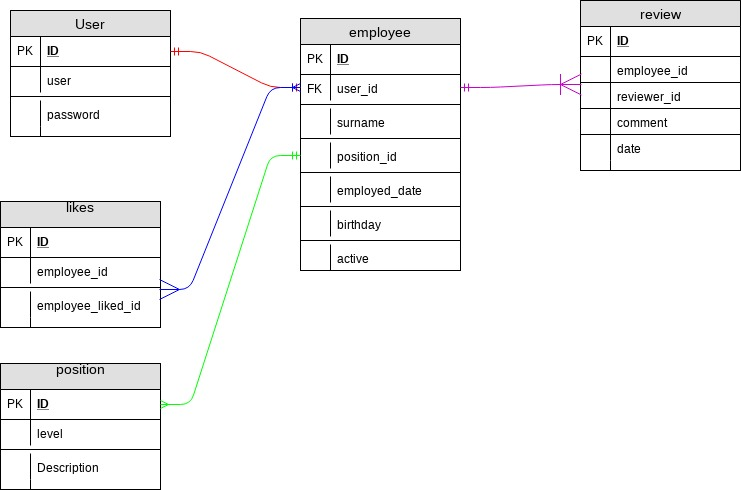
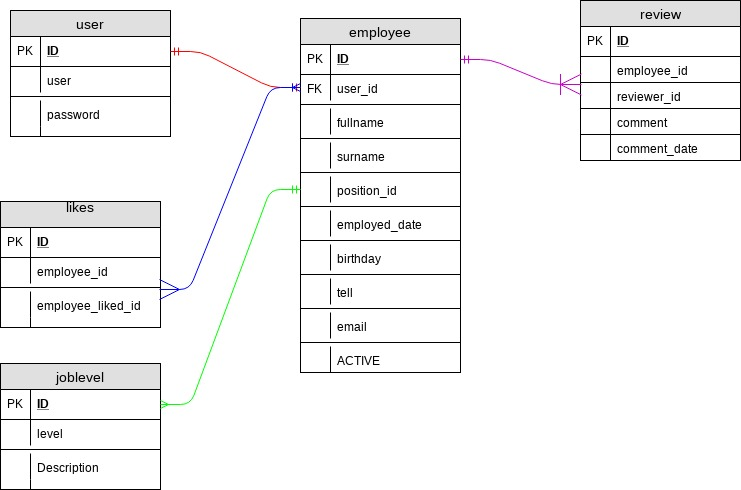
Over all updates, Started and finnished with STATISTICS

diff --git a/statistics.php b/statistics.php
@@ -12,6 +12,12 @@
 include_once("config/config.php");
 $header = "STATISTICS";
 
+//creating a new instance
+$DBCLASS = new DBCLASS();
+
+//include functions
+include_once("include/functions.php");
+
 ?>
 <!DOCTYPE html>
 <html lang="en">
@@ -52,7 +58,151 @@ $header = "STATISTICS";
           <?php include_once("include/header.php"); ?>
 
           <!-- Code body from here -->
-          <h1>Hallo</h1>
+					<?php
+
+					/************************************************************************************************
+					* birthdays this month
+					************************************************************************************************/
+					$Birthdays = $DBCLASS->CUSTOM("SELECT * FROM employee WHERE MONTH(birthday) ='" . date('m') . "' ORDER BY DAY(birthday) ASC");
+					//print_r($Birthdays);
+
+					while($row = $Birthdays->fetch_assoc()) {
+						$BirthdayArray[] = $row;
+					}
+
+					$colorArray = array(
+															'text-white bg-primary mb-3', 	//0
+															'text-white bg-secondary',			//1
+															'text-white bg-success',				//2
+															'text-white bg-danger',					//3
+															'text-white bg-warning',				//4
+															'text-white bg-info',						//5
+															'bg-light',											//6
+															'text-white bg-dark' 						//7
+														);
+
+					if(isset($BirthdayArray) && $BirthdayArray['SQLsuccess'] !== 'FALSE'){
+						echo "<h2>UPCOMMING BIRTHDAYS</h2>";
+						foreach ($BirthdayArray as $key => $value) {
+
+							if($key == 0){
+								echo "<div class='row'>";
+							}
+
+							//Employe birthday date convert to ddmm format for better testing
+							$time = strtotime($value['birthday']);
+							$birthday = date("dm", $time);
+
+							//gettting date today
+							//format ddmm(day month)
+							$today = date("dm");
+
+							if($birthday === $today){
+								$colorCardClass = $colorArray[3];
+								$employeeNamePreText = "Happy birthday";
+							}else{
+								$colorCardClass = $colorArray[1];
+								$employeeNamePreText = "EMPLOYEE NAME";
+							}
+
+
+							echo "
+							<div class='col-sx-12 col-md-4'>
+								<div class='card md-3 " . $colorCardClass . "' >
+									<h5 class='card-header'>" . $value['birthday'] . "</h5>
+									<div class='card-body'>
+										<h5 class='card-title'>" . $employeeNamePreText .": " . $value['fullname'] . " " . $value['surname'] . "</h5>
+										<p class='card-text'>TELEPHONE: " . $value['tell'] . "</p>
+										<p class='card-text'>EMAIL: " . $value['email'] . "</p>
+									</div>
+								</div>
+							</div>
+							";
+
+							if( ($key+1)%3 == 0 ){
+								echo "</div>";
+								echo "<br>";
+								echo "<div class='row'>";
+							}
+
+						}//for
+						echo "</div>";
+						echo "<br>";
+					}
+
+					/************************************************************************************************
+					* Total number of emloyees
+					************************************************************************************************/
+					$TotalEmployees = $DBCLASS->CUSTOM("SELECT * FROM employee");
+					printf("<h3>Total number of employees: %s</h3>", $TotalEmployees->num_rows);
+					//print_r($TotalEmployees);
+
+					/************************************************************************************************
+					* Total COMMENTS
+					************************************************************************************************/
+					$TotalComments = $DBCLASS->CUSTOM("SELECT * FROM review");
+					printf("<h3>Total number of REVIEWS: %s</h3>", $TotalComments->num_rows);
+					//print_r($TotalComments);
+
+					/************************************************************************************************
+					* Total Likes
+					************************************************************************************************/
+					$TotalLikes = $DBCLASS->CUSTOM("SELECT * FROM likes");
+					printf("<h3>Total number of LIKES: %s</h3>", $TotalLikes->num_rows);
+					//print_r($TotalLikes);
+
+					echo "<br>";
+
+					/************************************************************************************************
+					* Top 10 LIKED employees
+					************************************************************************************************/
+					echo "<h2>TOP 10 LIKED EMPLOYEES</h2>";
+
+					//all employees
+					$employees = EmployeeListByID();
+
+					//print_r($employees);
+
+					//Likes per employee
+					$employeeLikes = array();
+					foreach ($employees as $key => $value) {
+						$likes = $DBCLASS->CUSTOM("SELECT * FROM likes WHERE employee_id = '" . $key . "'");
+
+						$employeeLikes[] = array('employeeID'=>$key, 'numberOfLikes' => $likes->num_rows, 'employeeName' => $value);
+
+					}
+
+					//sort of multi dimensional array
+					usort($employeeLikes, function($a, $b) {
+    				return  $b['numberOfLikes'] - $a['numberOfLikes'];
+					});
+
+					//print_r($employeeLikes);
+					// echo "<br>";
+
+					//Creat top 10 string for TOP 10 employees card
+					$top10employeeLikesText = "";
+					for ($i=1; $i < 11; $i++) {
+						$arrayPos = $i -1;
+						$top10employeeLikesText .= "<p class='card-text'>" . $i . ". LIKES (" . $employeeLikes[$arrayPos]['numberOfLikes'] . ") - " . $employeeLikes[$arrayPos]['employeeName'] . "</p>";
+					}
+
+
+					echo "
+					<div class='col-sx-12 col-md-4'>
+						<div class='card md-12 " . $colorArray[5] . "' >
+							<h5 class='card-header'>" . "TOP 10 LIKED" . "</h5>
+							<div class='card-body'>
+								<h5 class='card-title'>" . "EMPLOYEES" ."</h5>
+								" . $top10employeeLikesText . "
+							</div>
+						</div>
+					</div>
+					";
+
+					echo "<br>";
+
+					?>
 
       </main>
 

diff --git a/include/functions.php b/include/functions.php
@@ -11,8 +11,9 @@
  //including my DBCLASS for doing mySQL data handeling
  include_once("config/config.php");
 
-
- //function for JobLevel descriptions by IDs
+ /************************************************************************************************
+ * function for JobLevel descriptions by IDs
+ ************************************************************************************************/
 function JobPositionByID(){
 
   //creating a new instance
@@ -33,23 +34,51 @@ function JobPositionByID(){
   $DBCLASSJob->close_connection();
 }
 
-function EmployeeListByID(){
+/************************************************************************************************
+* function for Users list by IDs
+************************************************************************************************/
+function UserListByID(){
     //creating a new instance
-    $DBCLASSEmployees = new DBCLASS();
+    $DBCLASSuser = new DBCLASS();
 
     //get all position in company
-    $employees = $DBCLASSEmployees->SELECT("user");
-  
-    $employeesList = array();
-  
+    $user = $DBCLASSuser->SELECT("user");
+
+    $user = array();
+
     if(isset($employees['SQLsuccess']) != "FASLE"){
       foreach ($employees as $key => $value) {
-        $employeesList[$value['ID']] = StrToUpper($value['user']);
+        $user[$value['ID']] = StrToUpper($value['user']);
       }
     }
-    return $employeesList;
-  
-    $DBCLASSEmployees->close_connection();
+
+    $DBCLASSuser->close_connection();
+
+    return $user;
+}
+
+/************************************************************************************************
+* function for Users list by IDs
+************************************************************************************************/
+Function EmployeeListByID(){
+
+  //creating a new instance
+  $DBCLASSEmployees = new DBCLASS();
+
+  //get all position in company
+  $employees = $DBCLASSEmployees->SELECT("employee");
+
+  $employeesList = array();
+
+  if(isset($employees['SQLsuccess']) != "FASLE"){
+    foreach ($employees as $key => $value) {
+      $employeesList[$value['ID']] = StrToUpper($value['fullname']) . " " . StrToUpper($value['surname']);
+    }
+  }
+
+  $DBCLASSEmployees->close_connection();
+
+  return $employeesList;
 }
 
 ?>

diff --git a/review_employee.php b/review_employee.php
@@ -23,6 +23,11 @@ WHERE e.ID = " . $_GET['id']);
 
 $employee = $employee->fetch_assoc();
 
+//including my DBCLASS for doing mySQL data handeling
+include_once("include/functions.php");
+
+$employees = EmployeeListByID();
+
 ?>
 <!DOCTYPE html>
 <html lang="en">
@@ -88,9 +93,13 @@ $employee = $employee->fetch_assoc();
           <div class="container" >
             <?php
               //creat review cards from database
-              $reviews = $DBCLASS->SELECT('review', 'employee_id', $_GET['id'] );
+              $reviews = $DBCLASS->CUSTOM("SELECT * FROM review WHERE employee_id ='" . $_GET['id'] . "' ORDER BY comment_date" );
+							//$reviews = $reviews->fetch_assoc();
+							while($row = $reviews->fetch_assoc()) {
+					         $ReviewArray[] = $row;
+					    }
 
-              //print_r($reviews);
+							//print_r($ReviewArray);
 
               //random card color array
               $colorArray = array('text-white bg-primary mb-3',
@@ -102,9 +111,10 @@ $employee = $employee->fetch_assoc();
                                   'bg-light',
                                   'text-white bg-dark');
 
-              if(isset($reviews) && $reviews['SQLsuccess'] !== 'FALSE'){
+              if(isset($ReviewArray) && $ReviewArray['SQLsuccess'] !== 'FALSE'){
 
-                foreach ($reviews as $key => $value) {
+
+                foreach ($ReviewArray as $key => $value) {
 
                   //random class color
                   $randomNum = rand(0, 7);
@@ -118,6 +128,7 @@ $employee = $employee->fetch_assoc();
                     <div class='card md-3 " . $colorArray[$randomNum] . "' >
                       <h5 class='card-header'>" . $value['comment_date'] . "</h5>
                       <div class='card-body'>
+											<h5 class='card-title'>" .$employees[$value['employee_id']] . "</h5>
                         <p class='card-text'>" . $value['comment'] . "</p>
                       </div>
                     </div>
@@ -134,6 +145,7 @@ $employee = $employee->fetch_assoc();
                 echo "</div>";
                 echo "<br>";
               }
+
             ?>
         </div>
 

diff --git a/index.php b/index.php
@@ -70,17 +70,17 @@
                     }).done(function(data) {
                       console.log(data);
                         if(data.login_success){
-                          notySuccess("welcome!");
+                          notySuccess("WELCOME!");
 
                           //relocate after succesful login
                           setTimeout(function(){window.location.replace("home_page.php")}, 1500);
                         }else{
-                          notyError("Username/Password does not match.");
+                          notyError("USERNAME/PASSWORD DOES NOT MATCH");
                         }
 
                     }).fail(function() {
 
-                        notyError("Database error, Please contact IT Support");
+                        notyError("DATABASE ERROR, PLEASE CONTACT IT SUPPORT");
 
                     });
                 //notySuccess("Login!!", true);

diff --git a/home_page.php b/home_page.php
@@ -88,7 +88,7 @@ $header = "EMPLOYEES";
                       <!-- Modal body -->
                       <div class="modal-body">
 
-                        <form id="createEmployee" >
+                        <form id="createEmployee" autocomplete="off">
                           <div class="form-group">
                             <label for="username">Username: </label>
                             <input id="username" name="username" type="text" class="form-control" required></input>

diff --git a/README.md b/README.md
@@ -6,7 +6,9 @@ The idea of this project is to have a simple employee management system, with so
 ## Setup
 1. Setup a database in mysql with the database name as 'ses' and run the script in the setup folder "table.sql"
 2. Go to the folder config, edit the database connection settings
-3. After database setup and Tables created, import /setup/admin_user.sql to have and administrator login (user: admin ; Password: admin)
+3. After database setup and Tables created, import /setup/admin_user.sql to have and administrator login
++ user: admin
++ Password: admin
 
 ## External libraries used
 + noty [https://ned.im/noty]
